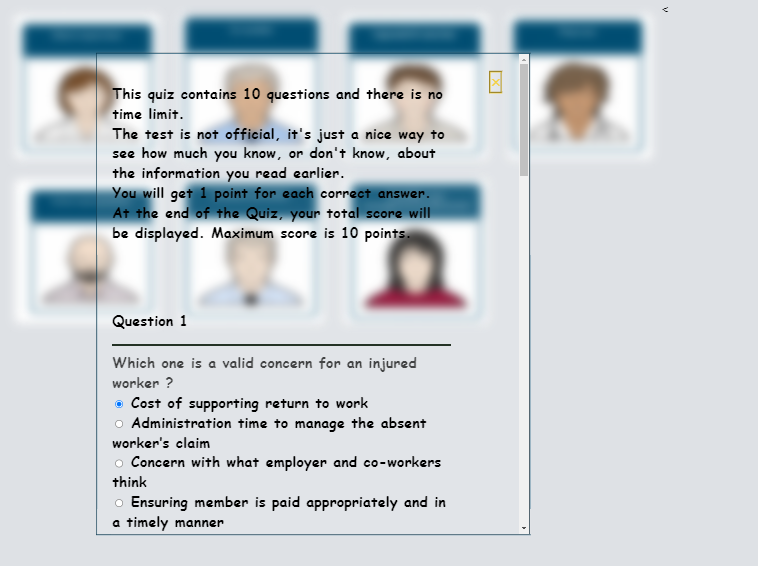
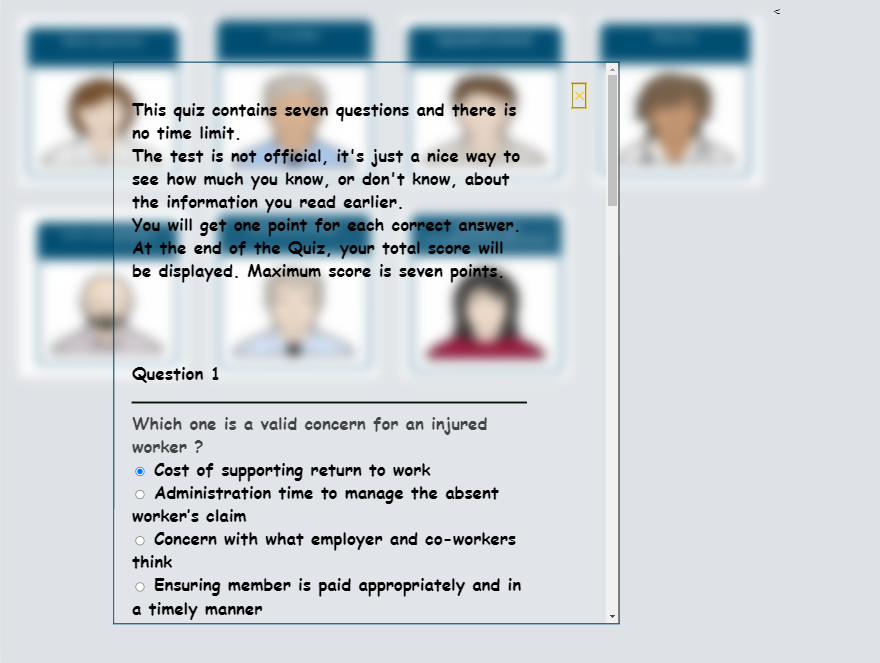
Fix Grammar.

diff --git a/index.html b/index.html
@@ -11,7 +11,7 @@
 <body onload="openWelcomeModal()">
   <div id="welcome-modal">
     <div id="welcome-modal-content" class="modal-content">
-      <h3> Welcome to the Occupational health and safety module of the Learning Management System
+      <h3> Welcome to the Occupational health and safety module of the Learning Management System.
         <p>
           Please click on the team member profile to know more about their respective priorities and concerns in case of a co-worker's injury/illness.
           <p>
@@ -24,11 +24,11 @@
     <span class="close">&times;</span>
     <div id="quiz-modal-content" class="modal-content">
       <p>
-        This quiz contains 10 questions and there is no time limit.
+        This quiz contains seven questions and there is no time limit.
         <br />
         The test is not official, it's just a nice way to see how much you know, or don't know, about the information you read earlier.
         <br />
-        You will get 1 point for each correct answer. At the end of the Quiz, your total score will be displayed. Maximum score is 10 points.
+        You will get one point for each correct answer. At the end of the Quiz, your total score will be displayed. Maximum score is seven points.
       </p>
       <br />
       <br />

diff --git a/ReadMe.md b/ReadMe.md
@@ -1,20 +1,15 @@
-This web page serves as an module for a Learning Management System (LSM) that focuses on occupational health and safety. The goal of this module is to educate students about the priorities and concerns; work team members will have during a worker's injury/illness. <p>
-This UX of this web page is adapted to provide a desirable experience on different screen resolutions to maximize audience engagement. <p>
+This web page serves as a module for a Learning Management System (LSM) that focuses on occupational health and safety. The main goal of this module is to educate students about the priorities and concerns of team members in case of a co-worker's injury/illness. <p>
+This UX of this web page is adapted to provide a desirable experience on popular screen resolutions to maximize audience engagement. <p>
 
-| Device Used| Resolution    |
-| ------------- | ------------- |
-| Laptop  | <i> 1366 * 768 </i>  |
-| Mobile  | <i> 360 * 640 </i>  |
-
-<h1> Landing Page Preview </h1>
+<h3> Landing Page Preview </h1>
 
 ![Landing Page](assets/landing_page.PNG)
 
-<p> Simply clicking on the team member profile would show their concerns and priotities
+<p> Simply clicking on the team member profile would show their concerns and priorities.
 
 ![Description](assets/description_preview.PNG)
 
-<p> Afterwards, users can take a quiz to review the educational material.
+<p> Afterwards, users can opt to take a quiz to review their grasp on educational material.
 
 ![Quiz Preview](assets/quiz_preview.PNG)
 
